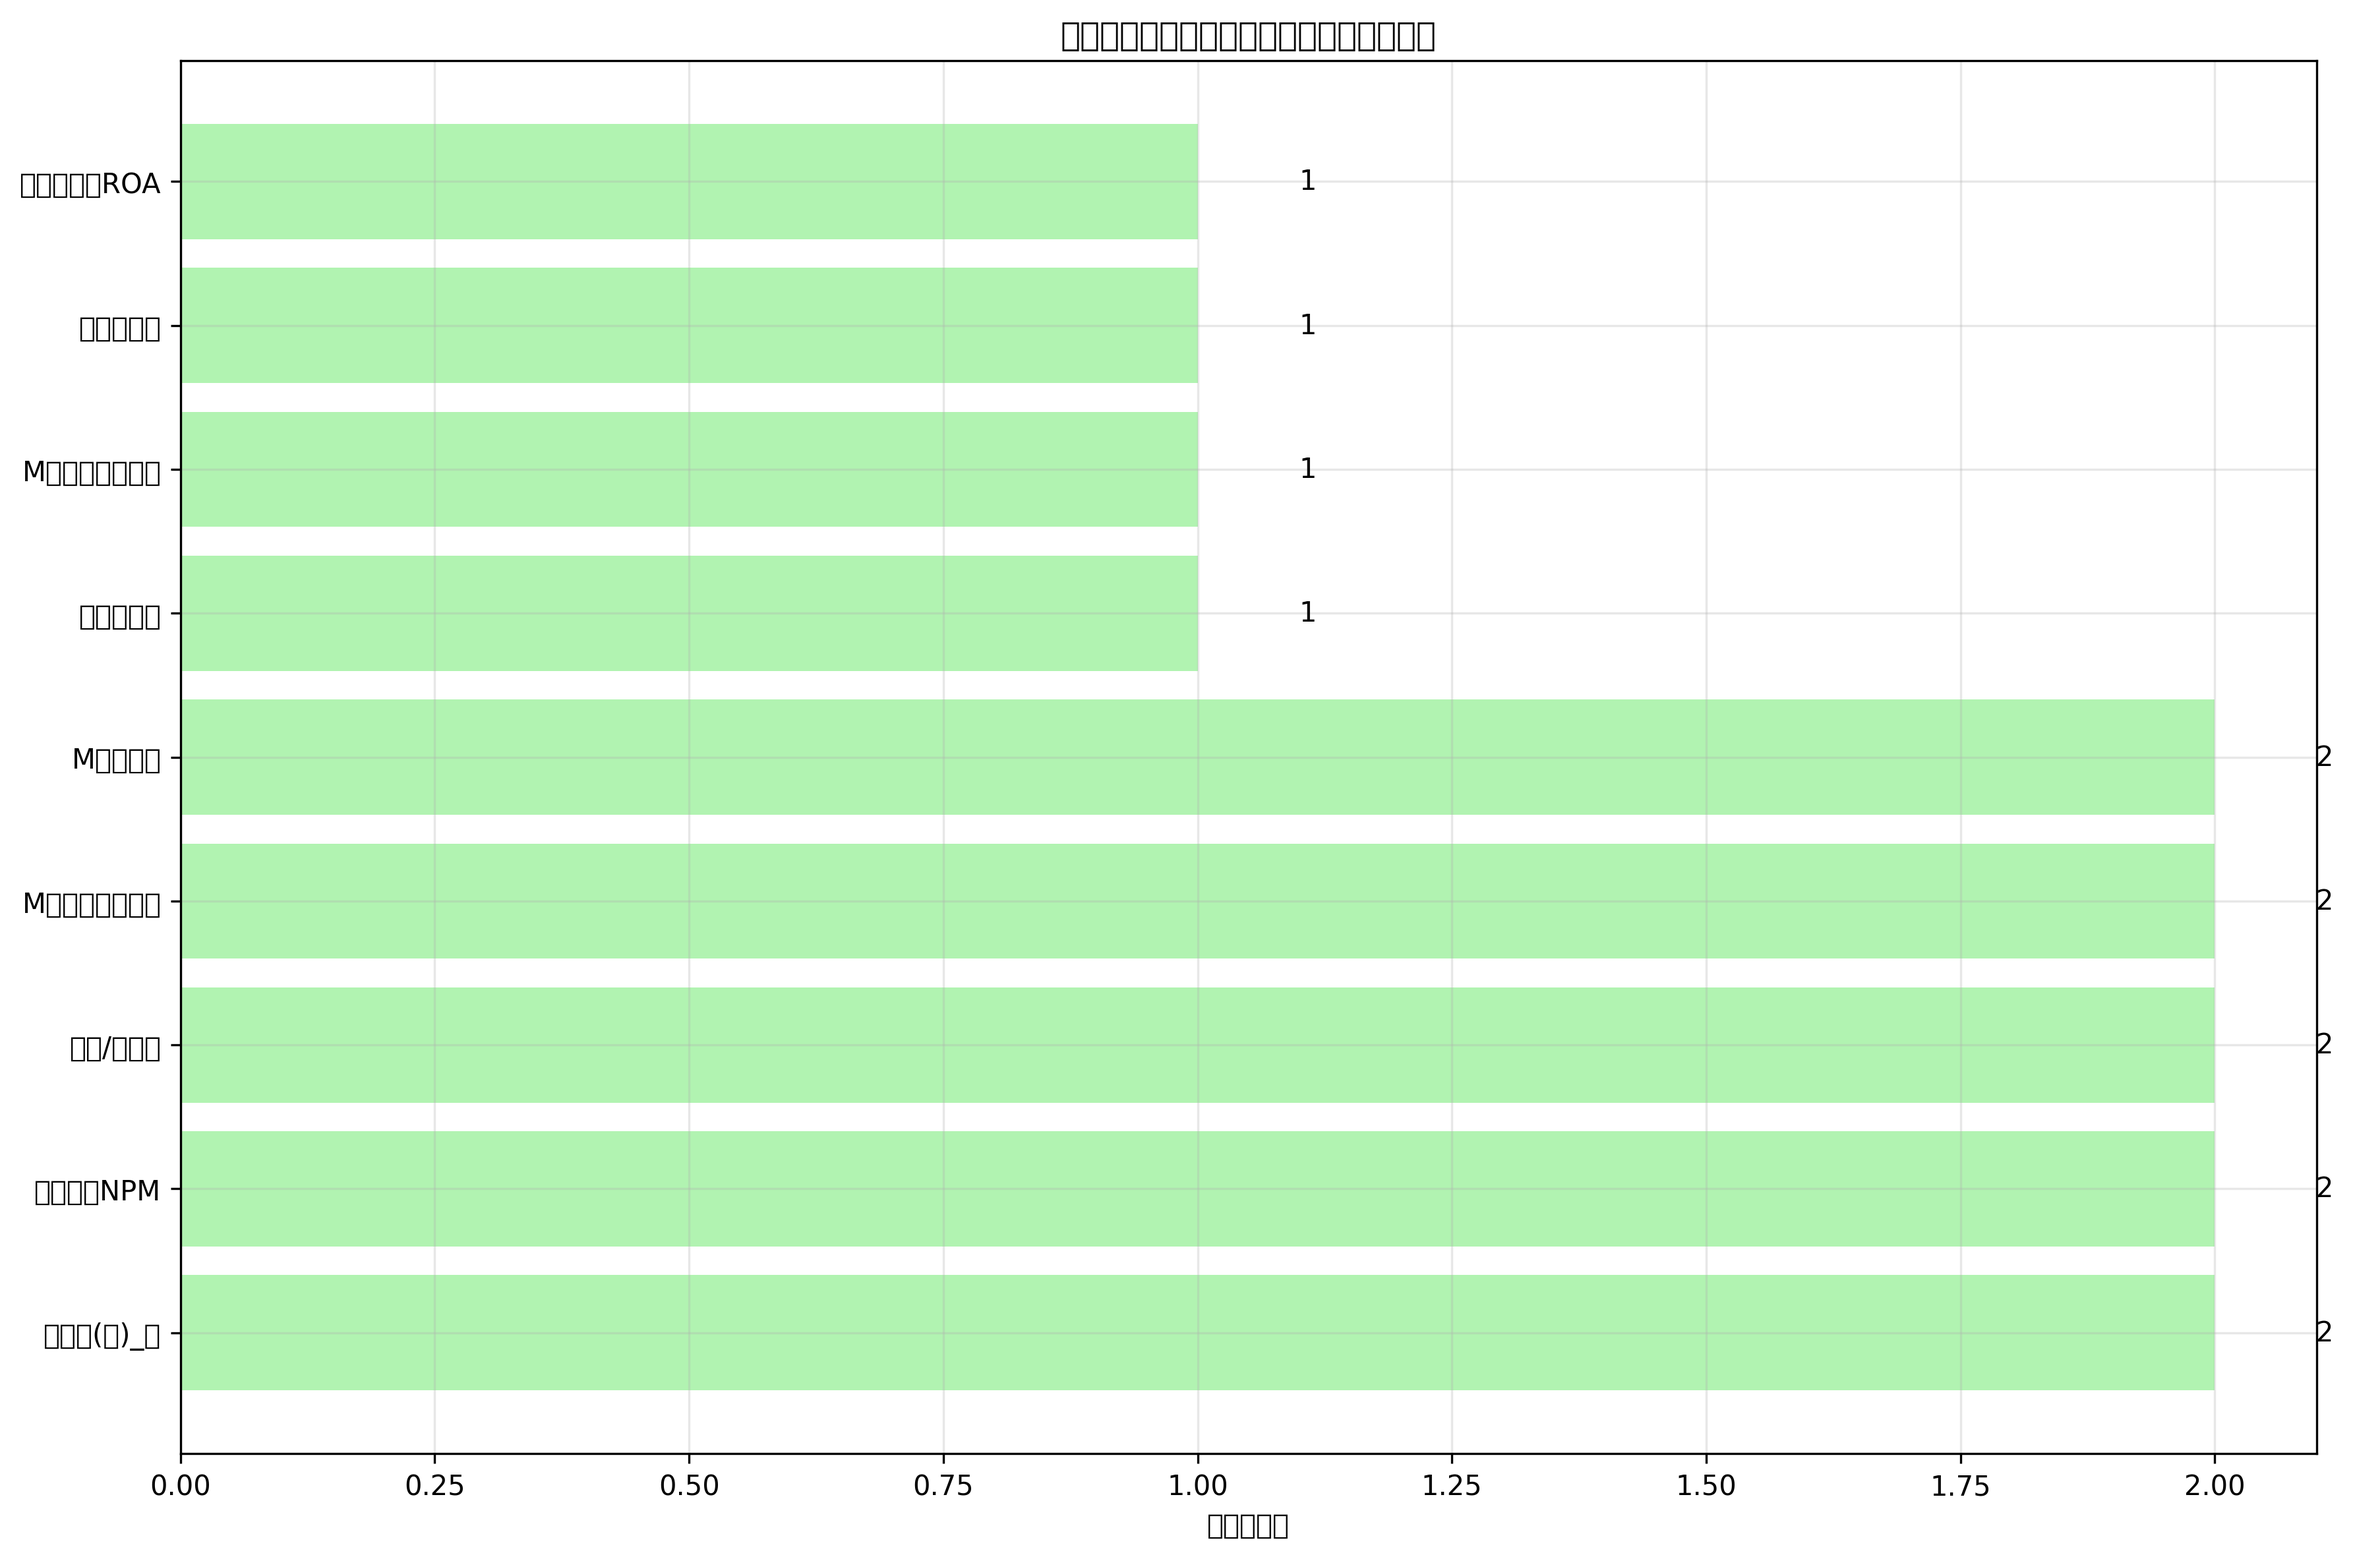
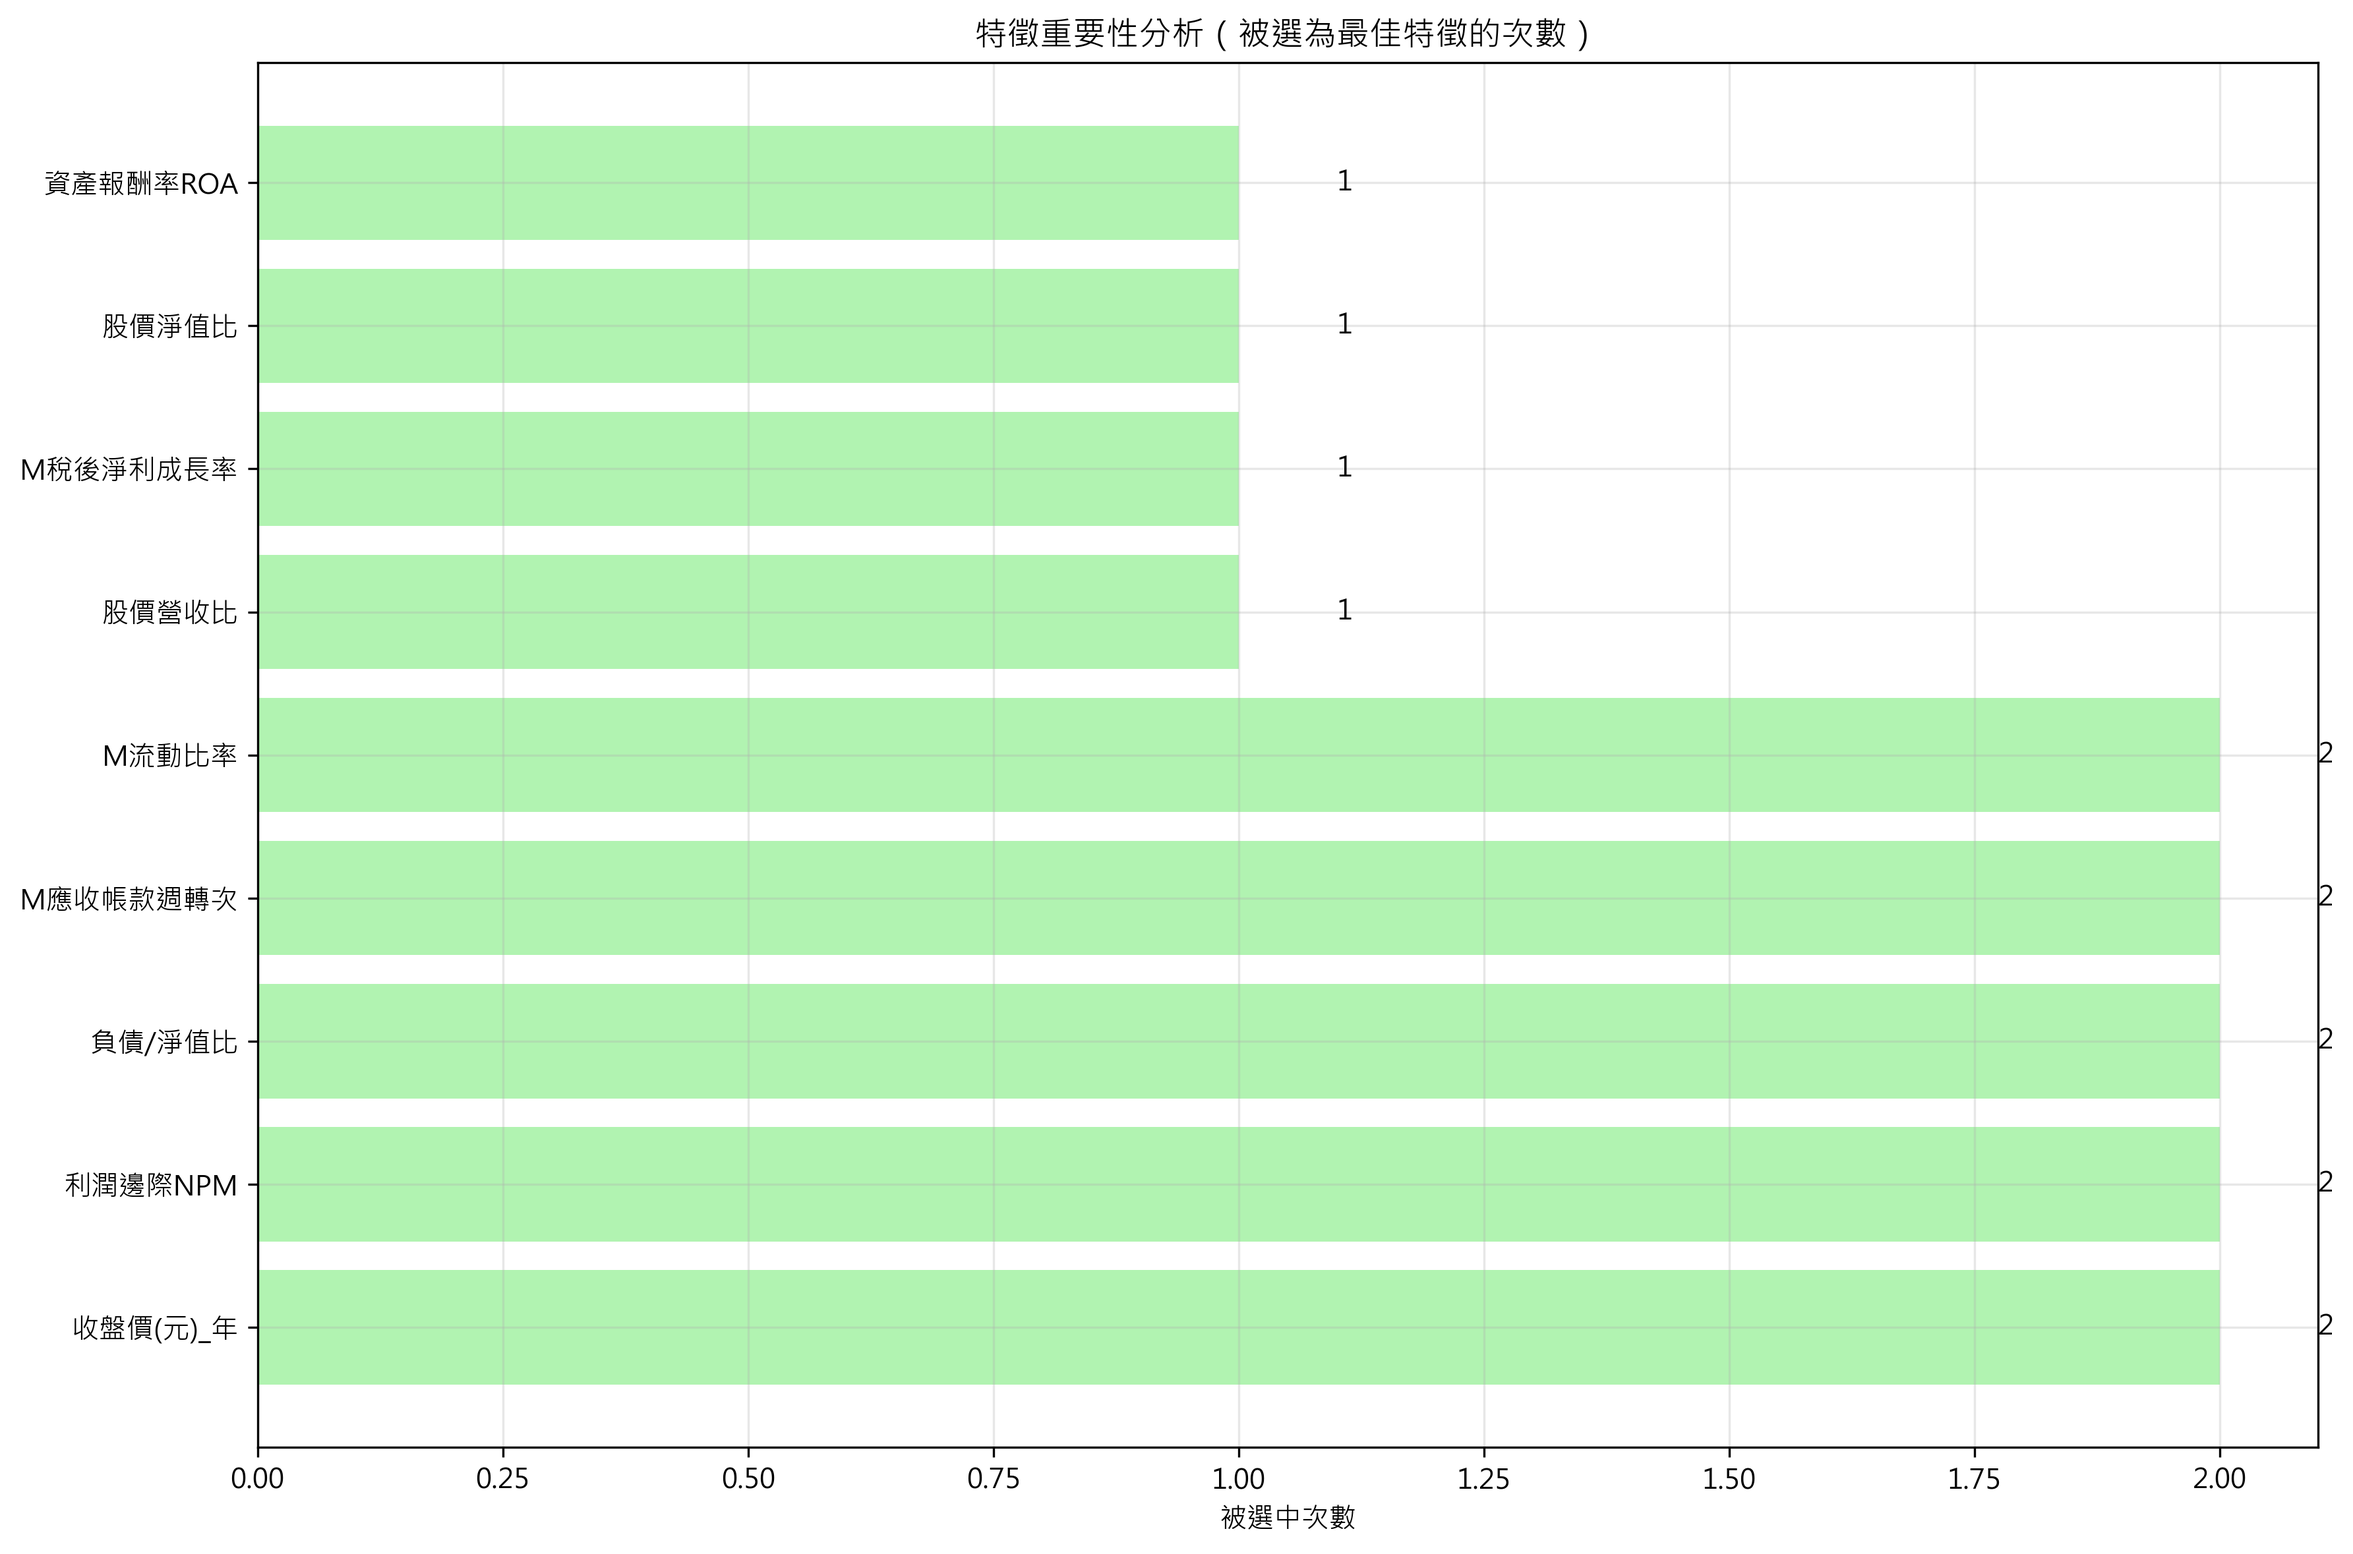
新版本

diff --git a/Q2_1.py b/Q2_1.py
@@ -8,13 +8,27 @@ import seaborn as sns
 from itertools import combinations
 import warnings
 import os
-import graphviz
-from sklearn.tree import export_graphviz
+import platform
 warnings.filterwarnings('ignore')
 
-# 設定中文字體
-plt.rcParams['font.sans-serif'] = ['Microsoft JhengHei', 'Arial Unicode MS', 'SimHei']
-plt.rcParams['axes.unicode_minus'] = False
+# 設定中文字體 - 根據不同作業系統自動選擇
+def setup_chinese_font():
+    system = platform.system()
+    if system == 'Windows':
+        # Windows系統使用微軟正黑體或SimHei
+        try:
+            plt.rcParams['font.sans-serif'] = ['Microsoft JhengHei', 'SimHei', 'Microsoft YaHei']
+        except:
+            plt.rcParams['font.sans-serif'] = ['SimHei']
+    elif system == 'Darwin':  # macOS
+        plt.rcParams['font.sans-serif'] = ['Arial Unicode MS', 'Heiti TC', 'STHeiti']
+    else:  # Linux
+        plt.rcParams['font.sans-serif'] = ['DejaVu Sans', 'WenQuanYi Micro Hei', 'SimHei']
+    
+    plt.rcParams['axes.unicode_minus'] = False  # 解決負號顯示問題
+
+# 在程式開始時設定中文字體
+setup_chinese_font()
 
 class StockDecisionTreeSelector:
     def __init__(self, data_path, output_dir='Q2output'):
@@ -259,6 +273,9 @@ class StockDecisionTreeSelector:
             print("沒有結果可視覺化")
             return
         
+        # 確保中文字體設定
+        setup_chinese_font()
+        
         # 準備資料
         years = [r['test_year'] for r in self.results]
         returns = [r['best_return'] for r in self.results]
@@ -321,6 +338,9 @@ class StockDecisionTreeSelector:
     
     def create_feature_importance_chart(self):
         """創建特徵重要性圖表"""
+        # 確保中文字體設定
+        setup_chinese_font()
+        
         # 統計每個特徵被選中的次數
         feature_counts = {}
         for result in self.results:
@@ -359,6 +379,9 @@ class StockDecisionTreeSelector:
         if not self.results:
             return
         
+        # 確保中文字體設定
+        setup_chinese_font()
+        
         # 選擇最佳表現的決策樹進行視覺化
         best_result = max(self.results, key=lambda x: x['best_return'])
         
@@ -394,6 +417,9 @@ class StockDecisionTreeSelector:
         """創建績效比較圖表"""
         if not self.results:
             return
+        
+        # 確保中文字體設定
+        setup_chinese_font()
         
         returns = [r['best_return'] for r in self.results]
         years = [r['test_year'] for r in self.results]
